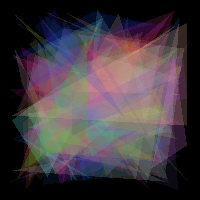
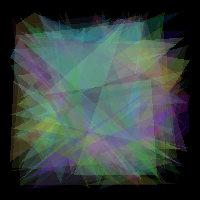
Changed the sides of the Polygon from 3 to 5

diff --git a/main.py b/main.py
@@ -2,8 +2,8 @@ from PIL import Image, ImageDraw, ImageChops
 from evol import Population
 import random
 
-SIDES = 3
-POLYGON_COUNT = 100
+SIDES = 5  # Amount of corners in each Polygon
+POLYGON_COUNT = 100  # Amount of Polygons generated
 # Constants for image
 MAX = 255 * 200 * 200
 TARGET = Image.open("Images/3a.png")
@@ -14,10 +14,10 @@ TARGET.load()  # read image and close the file
 def make_polygon(n):
     R, G, B = [random.randrange(256) for i in range(3)]
     A = random.randrange(30, 60)
-    x1, y1, x2, y2, x3, y3 = [random.randrange(10, 190) for i in range(6)]
+    x1, y1, x2, y2, x3, y3, x4, y4, x5, y5 = [random.randrange(10, 190) for i in range(10)]
 
     # 0 <= R|G|B < 256, 30 <= A <= 60, 10 <= x|y < 190
-    return [(R, G, B, A), (x1, y1), (x2, y2), (x3, y3)]
+    return [(R, G, B, A), (x1, y1), (x2, y2), (x3, y3), (x4, y4), (x5, y5)]
 
 
 def initialise():
